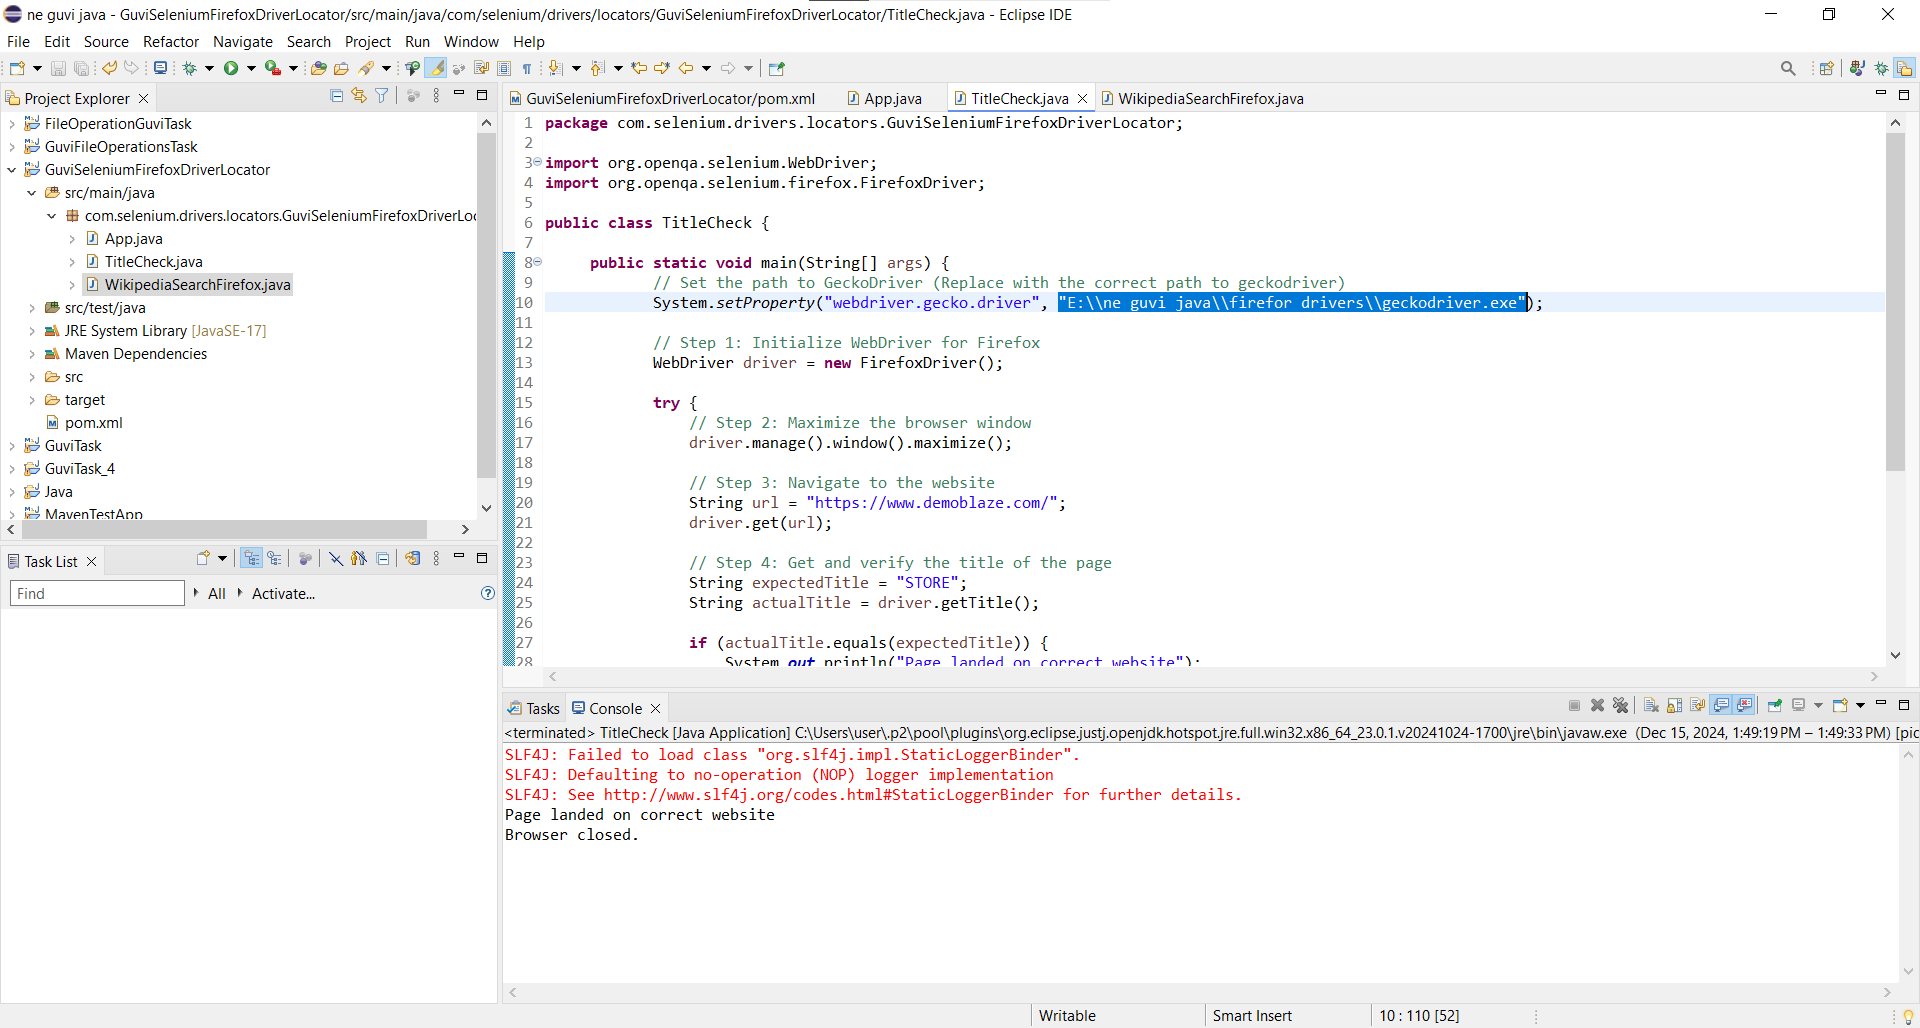
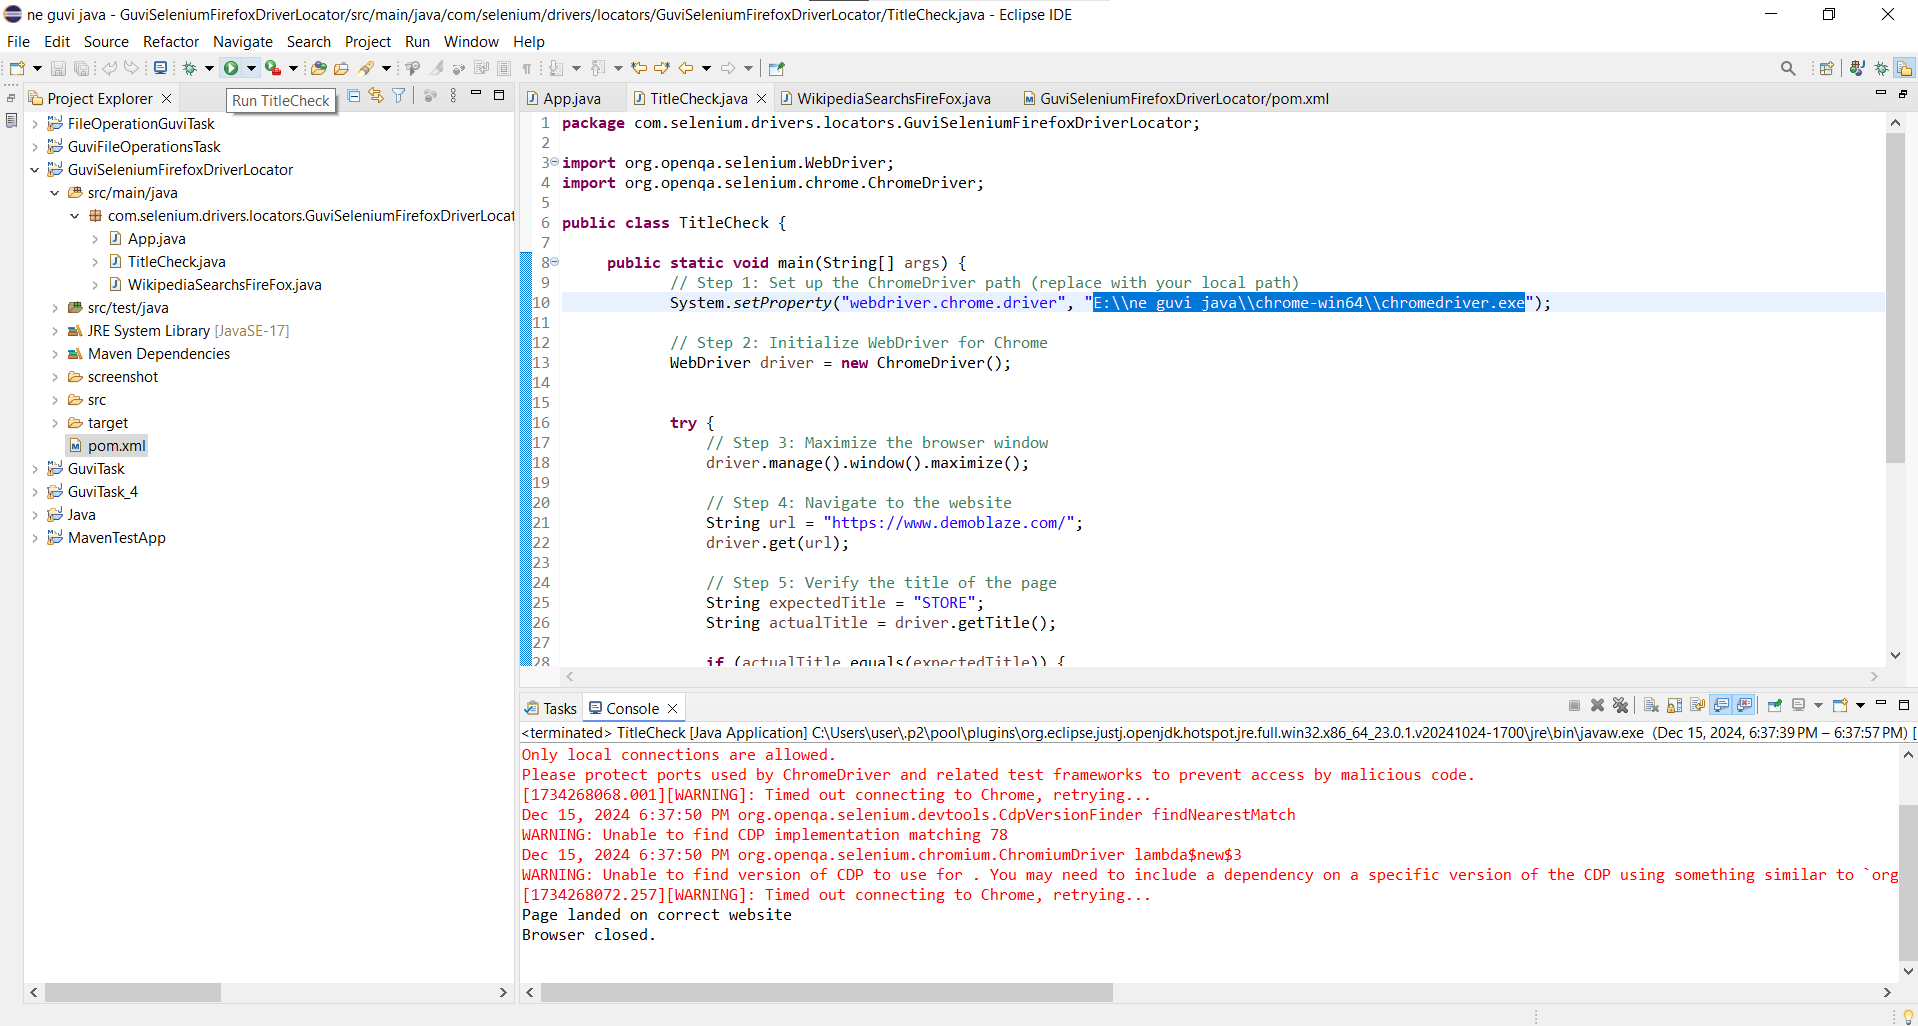
Updated task file

diff --git a/src/main/java/com/selenium/drivers/locators/GuviSeleniumFirefoxDriverLocator/WikipediaSearchsFireFox.java b/src/main/java/com/selenium/drivers/locators/GuviSeleniumFirefoxDriverLocator/WikipediaSearchsFireFox.java
@@ -3,43 +3,44 @@ package com.selenium.drivers.locators.GuviSeleniumFirefoxDriverLocator;
 import org.openqa.selenium.By;
 import org.openqa.selenium.WebDriver;
 import org.openqa.selenium.WebElement;
-import org.openqa.selenium.firefox.FirefoxDriver;
+import org.openqa.selenium.chrome.ChromeDriver;
 
-public class WikipediaSearchFirefox {
+public class WikipediaSearchsFireFox {
 
     public static void main(String[] args) {
-        // Set the path to GeckoDriver (replace with your actual path)
-        System.setProperty("webdriver.gecko.driver", "E:\\ne guvi java\\firefor drivers\\geckodriver.exe");
+        // Step 1: Set up ChromeDriver path (replace with your local path)
+        System.setProperty("webdriver.chrome.driver", "E:\\ne guvi java\\chrome-win64\\chromedriver.exe");
 
-        // Step 1: Initialize WebDriver for Firefox
-        WebDriver driver = new FirefoxDriver();
+        // Step 2: Initialize Chrome browser
+        WebDriver driver = new ChromeDriver();
 
         try {
-            // Step 2: Maximize the browser window
+            // Step 3: Maximize the browser window
             driver.manage().window().maximize();
 
-            // Step 3: Navigate to Wikipedia homepage
-            String url = "https://www.wikipedia.org/";
-            driver.get(url);
+            // Step 4: Navigate to Wikipedia homepage
+            driver.get("https://www.wikipedia.org/");
 
-            // Step 4: Search for "Artificial Intelligence"
+            // Step 5: Locate the search input box, enter "Artificial Intelligence", and search
             WebElement searchBox = driver.findElement(By.id("searchInput"));
             searchBox.sendKeys("Artificial Intelligence");
+
+            // Locate the search button and click it
             WebElement searchButton = driver.findElement(By.xpath("//button[@type='submit']"));
             searchButton.click();
 
-            // Step 5: Click on the "History" section
-            WebElement historySection = driver.findElement(By.xpath("//h2[@id='History']"));
+            // Step 6: Click on the "History" section in the resulting page
+            WebElement historySection = driver.findElement(By.id("History"));
             historySection.click();
 
-            // Step 6: Print the title of the "History" section
+            // Step 7: Print the title of the section
             String sectionTitle = historySection.getText();
             System.out.println("The title of the section is: " + sectionTitle);
 
         } catch (Exception e) {
             e.printStackTrace();
         } finally {
-            // Step 7: Close the browser
+            // Step 8: Close the browser
             driver.quit();
             System.out.println("Browser closed.");
         }

diff --git a/src/main/java/com/selenium/drivers/locators/GuviSeleniumFirefoxDriverLocator/TitleCheck.java b/src/main/java/com/selenium/drivers/locators/GuviSeleniumFirefoxDriverLocator/TitleCheck.java
@@ -1,26 +1,27 @@
 package com.selenium.drivers.locators.GuviSeleniumFirefoxDriverLocator;
 
 import org.openqa.selenium.WebDriver;
-import org.openqa.selenium.firefox.FirefoxDriver;
+import org.openqa.selenium.chrome.ChromeDriver;
 
 public class TitleCheck {
 
 	 public static void main(String[] args) {
-	        // Set the path to GeckoDriver (Replace with the correct path to geckodriver)
-	        System.setProperty("webdriver.gecko.driver", "E:\\ne guvi java\\firefor drivers\\geckodriver.exe");
+	        // Step 1: Set up the ChromeDriver path (replace with your local path)
+	        System.setProperty("webdriver.chrome.driver", "E:\\ne guvi java\\chrome-win64\\chromedriver.exe");
 
-	        // Step 1: Initialize WebDriver for Firefox
-	        WebDriver driver = new FirefoxDriver();
+	        // Step 2: Initialize WebDriver for Chrome
+	        WebDriver driver = new ChromeDriver();
+	        
 
 	        try {
-	            // Step 2: Maximize the browser window
+	            // Step 3: Maximize the browser window
 	            driver.manage().window().maximize();
 
-	            // Step 3: Navigate to the website
+	            // Step 4: Navigate to the website
 	            String url = "https://www.demoblaze.com/";
 	            driver.get(url);
 
-	            // Step 4: Get and verify the title of the page
+	            // Step 5: Verify the title of the page
 	            String expectedTitle = "STORE";
 	            String actualTitle = driver.getTitle();
 
@@ -33,7 +34,7 @@ public class TitleCheck {
 	        } catch (Exception e) {
 	            e.printStackTrace();
 	        } finally {
-	            // Step 5: Close the browser
+	            // Step 6: Close the browser
 	            driver.quit();
 	            System.out.println("Browser closed.");
 	        }
